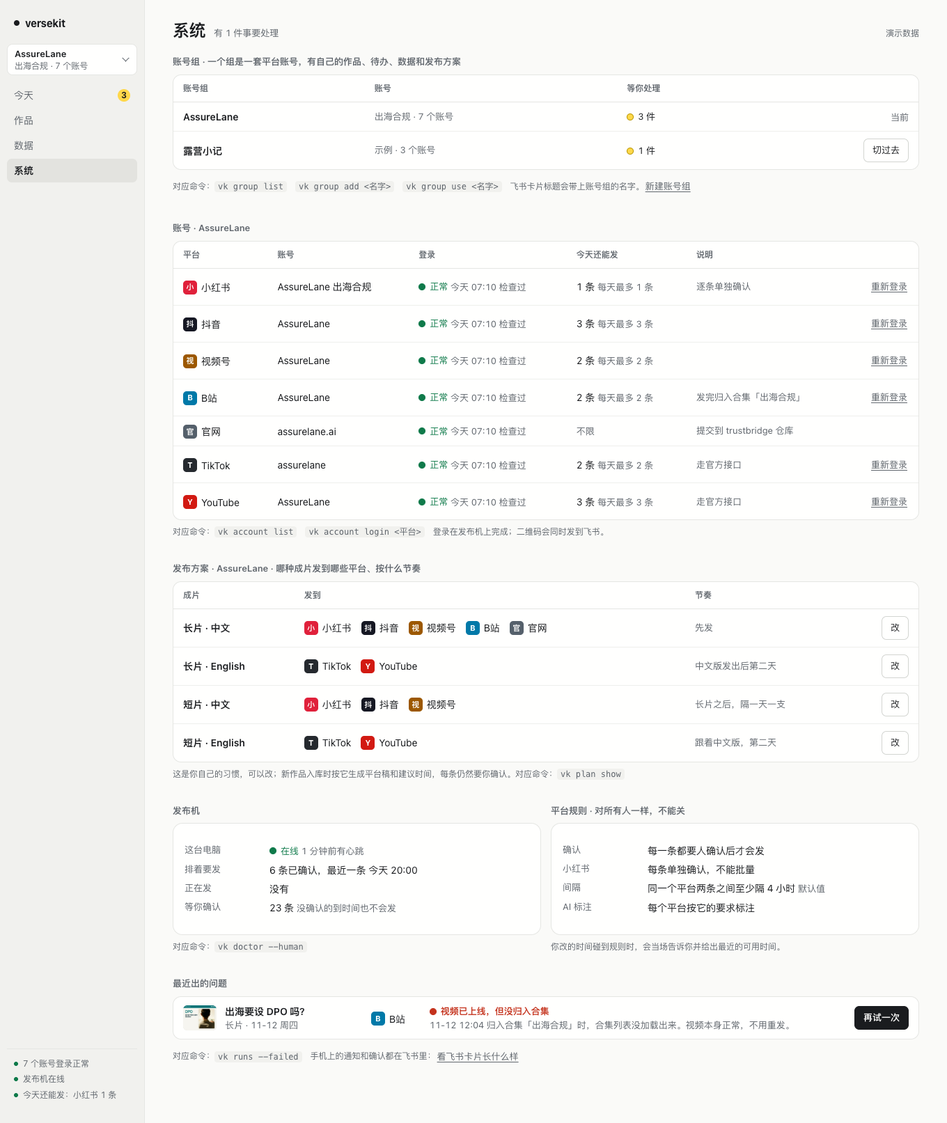
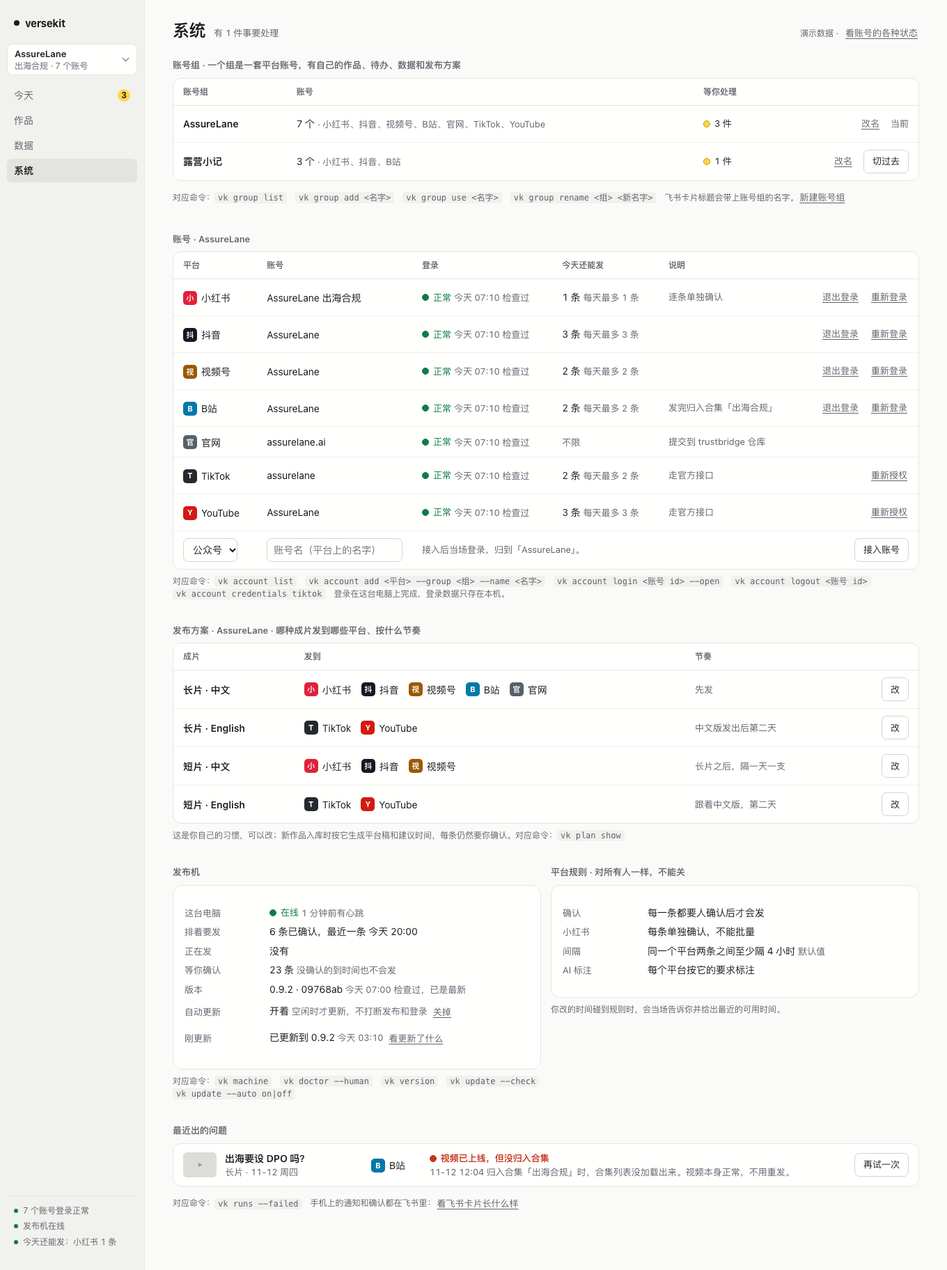
docs(docs): 系统页设计追上实现，补退出登录、防串号、自动更新的设计
实现时补了设计稿里没有的东西（接入账号、登录进行中、TikTok 凭证），
一张账号表里出现了文字链接、描边按钮、墨色实心三种操作，没有规则。
这次先定规则：操作的轻重跟这一行的状态走，不跟平台走；红只给「坏了」，
黄给「等你」。其余状态都按这条规则落位，一行要多说一句时在行内展开，不弹窗。

网页上只保留「打开登录窗口」一种登录方式：不是每个平台都能扫码，
所以网页上的词改成「等你登录 / 我登录好了」。

diff --git a/docs/design/system.html b/docs/design/system.html
@@ -3,11 +3,27 @@
 <link rel="stylesheet" href="app.css">
 <style>
 .two{display:grid;grid-template-columns:repeat(2,minmax(0,1fr));gap:14px}
-.kv{padding:14px 16px;display:grid;grid-template-columns:110px minmax(0,1fr);gap:6px 12px;font-size:14px}
+.kv{padding:14px 16px;display:grid;grid-template-columns:110px minmax(0,1fr);gap:6px 12px;font-size:14px;align-items:baseline}
 .kv dt{color:var(--ink2);font-size:13px}
 .kv dd{margin:0}
+.kv .link{margin-left:6px}
+.notes{margin:4px 0 2px;padding-left:18px;font-size:13px;color:var(--ink2)}
 .plan td:first-child{white-space:nowrap;font-weight:600}
 .pfs{display:flex;gap:10px 14px;flex-wrap:wrap}
+/* 操作列：文字链接和按钮排在一行，靠右 */
+.acts{display:inline-flex;gap:14px;align-items:center;justify-content:flex-end;white-space:nowrap}
+/* 行内展开：这一行需要多说一句或多填一项时，在它下面展开，不弹窗 */
+tr.has-sub td{border-bottom:0}
+tr.subrow td{padding-top:0}
+.subin{display:flex;gap:10px 16px;align-items:center;flex-wrap:wrap;padding:10px 12px;border:1px solid var(--line);border-radius:var(--r);background:var(--hover);font-size:13px}
+.subin p{margin:0;flex:1 1 320px;max-width:60em}
+.cmd code{white-space:nowrap}
+.subin .acts{margin-left:auto}
+.subin.bad{background:var(--bad-bg);border-color:var(--bad-line)}
+.subin.bad p{color:var(--bad)}
+.subin input{flex:1 1 180px;max-width:260px;height:34px;border:1px solid var(--ctl);border-radius:7px;padding:0 9px;font-size:14px;background:var(--paper);min-width:0}
+.addrow select{height:34px;border:1px solid var(--ctl);border-radius:7px;padding:0 9px;font-size:14px;background:var(--paper);max-width:100%}
+.addrow input{width:100%;max-width:220px}
 @media (max-width:860px){.two{grid-template-columns:minmax(0,1fr)}}
 </style></head>
 <body><div class="app">
@@ -22,43 +38,117 @@
 initShell();
 const main = document.getElementById('main');
 // 账号、规则、发布方案都是演示数据。规则里的数字是默认值，还没最后确定。
+// #acc=states：状态样张，一张表里摆出要处理的各种状态。#add=none / #add=full：接入账号那一行的另外两种样子。
+const STATES = HASH.acc === 'states';
+// via：web = 在登录窗口里登录；api = 官方接口授权；repo = 不用登录
+// state：ok 正常 / expired 要重新登录 / failed 没登上 / conflict 登录到了别的号 / off 没登录 / nocred 缺应用凭证 / noauth 还没授权
+// step（进行中的那一步）：pre 登录前的说明 / wait 等你登录 / logout 退出确认 / cred 填应用凭证
+const A = (k, name, left, cap, note, via = 'web', state = 'ok', step = null) => ({ k, name, left, cap, note, via, state, step });
 const ACC = SIMPLE
-  ? [['xhs', '露营小记', 1, 1, '逐条单独确认'], ['dy', '露营小记', 2, 3, ''], ['bili', '露营小记', 1, 2, '']]
-  : [['xhs', 'AssureLane 出海合规', 1, 1, '逐条单独确认'], ['dy', 'AssureLane', 3, 3, ''], ['sph', 'AssureLane', 2, 2, ''], ['bili', 'AssureLane', 2, 2, '发完归入合集「出海合规」'],
-    ['web', 'assurelane.ai', null, null, '提交到 trustbridge 仓库'], ['tk', 'assurelane', 2, 2, '走官方接口'], ['yt', 'AssureLane', 3, 3, '走官方接口']];
+  ? [A('xhs', '露营小记', 1, 1, '逐条单独确认'), A('dy', '露营小记', 2, 3, ''), A('bili', '露营小记', 1, 2, '')]
+  : STATES
+    ? [A('xhs', 'AssureLane 出海合规', 1, 1, '逐条单独确认', 'web', 'conflict'), A('dy', 'AssureLane', 3, 3, '', 'web', 'expired'), A('sph', 'AssureLane', 2, 2, '', 'web', 'expired', 'wait'), A('bili', 'AssureLane', 2, 2, '发完归入合集「出海合规」', 'web', 'failed'),
+      A('web', 'assurelane.ai', null, null, '提交到 trustbridge 仓库', 'repo'), A('tk', 'assurelane', 2, 2, '走官方接口', 'api', 'nocred'), A('yt', 'AssureLane', 3, 3, '走官方接口', 'api')]
+    : [A('xhs', 'AssureLane 出海合规', 1, 1, '逐条单独确认'), A('dy', 'AssureLane', 3, 3, ''), A('sph', 'AssureLane', 2, 2, ''), A('bili', 'AssureLane', 2, 2, '发完归入合集「出海合规」'),
+      A('web', 'assurelane.ai', null, null, '提交到 trustbridge 仓库', 'repo'), A('tk', 'assurelane', 2, 2, '走官方接口', 'api'), A('yt', 'AssureLane', 3, 3, '走官方接口', 'api')];
+// 这台电脑上别的组接了哪些平台：同平台再登录时，登录前先说清楚会登进哪个号
+const OTHER = SIMPLE ? { name: 'AssureLane', pfs: { xhs: 'AssureLane 出海合规', dy: 'AssureLane', sph: 'AssureLane', bili: 'AssureLane' } } : { name: '露营小记', pfs: { xhs: '露营小记', dy: '露营小记', bili: '露营小记' } };
+const OTHER_PFS = SIMPLE ? ['xhs', 'dy', 'sph', 'bili', 'web', 'tk', 'yt'] : ['xhs', 'dy', 'bili'];
 const PLAN = SIMPLE
   ? [['视频', ['xhs', 'dy', 'bili'], '每支成片发到所有接入的平台（默认方案）']]
   : [['长片 · 中文', ['xhs', 'dy', 'sph', 'bili', 'web'], '先发'], ['长片 · English', ['tk', 'yt'], '中文版发出后第二天'], ['短片 · 中文', ['xhs', 'dy', 'sph'], '长片之后，隔一天一支'], ['短片 · English', ['tk', 'yt'], '跟着中文版，第二天']];
-let relogin = null;
+const NOTES = ['系统页：侧栏的发布机状态和真实心跳一致', '接入账号的下拉框只列能接的平台', '发布方案可以按成片分别改', '最近出的问题只留能再试的', '后台服务会自己检查更新'];
+let autoUpdate = true, notesOpen = false;
+const names = (ks) => ks.map((k) => PF[k][1]).join('、');
+const needs = () => ACC.filter((a) => a.via !== 'repo' && a.state !== 'ok').length;
+const acct = (k) => ACC.find((a) => a.k === k);
+const B = (act, k, label, cls = 'btn') => `<button class="${cls}" data-act="${act}" data-k="${k}">${label}</button>`;
+
+function loginCell(a) {
+  if (a.step === 'wait') return a.via === 'api' ? '<span class="st wait">等你授权</span> <span class="sub">授权页已在浏览器里打开</span>' : '<span class="st wait">等你登录</span> <span class="sub">登录窗口已打开</span>';
+  return { ok: '<span class="st done">正常</span> <span class="sub">今天 07:10 检查过</span>', expired: '<span class="st bad">要重新登录</span> <span class="sub">今天 06:39 检查过</span>', failed: '<span class="st bad">没登上</span> <span class="sub">登录窗口关了，还没登进去</span>',
+    conflict: '<span class="st bad">登录到了别的号</span>', off: '<span class="st wait">没登录</span>', nocred: '<span class="st wait">缺应用凭证</span>', noauth: '<span class="st wait">还没授权</span>' }[a.state];
+}
+// 操作的轻重跟状态走：正常 → 文字链接；要你处理 → 描边按钮；进行中的下一步 → 墨色实心
+function actCell(a) {
+  const k = a.k;
+  if (a.via === 'repo') return '';
+  if (a.step === 'wait') return `<span class="acts">${B('cancel', k, '取消', 'link')}${B('done', k, a.via === 'api' ? '我授权好了' : '我登录好了', 'btn pri')}</span>`;
+  if (a.step || a.state === 'conflict') return '';
+  return `<span class="acts">${{ ok: a.via === 'api' ? B('login', k, '重新授权', 'link') : B('logout', k, '退出登录', 'link') + B('login', k, '重新登录', 'link'), expired: B('login', k, '重新登录'), failed: B('login', k, '再试一次'), off: B('login', k, '登录'), nocred: B('cred', k, '填应用凭证'), noauth: B('login', k, `Connect ${PF[k][1]}`) }[a.state]}</span>`;
+}
+function subRow(a) {
+  const k = a.k, pf = PF[k][1]; let cls = '', body = '';
+  if (a.step === 'pre') body = `<p>这台电脑上已经接了一个${pf}号（「${OTHER.name}」的 @${esc(OTHER.pfs[k])}）。登录窗口里登进哪个号，接进来的就是哪个号：扫码登录的是手机 App 当前的号，要接另一个号，先在 App 里切换账号，或在登录窗口里改用短信登录。</p><span class="acts">${B('cancel', k, '取消', 'link')}${B('go', k, '知道了，开始登录', 'btn pri')}</span>`;
+  else if (a.step === 'logout') { const n = upcoming().filter((r) => r.x.pf === k).length; body = `<p>退出后会清掉这个账号在这台电脑上的登录数据，要重新登录才能发。${n ? `<b>这个账号还有 ${n} 条排着要发，退出后不会发。</b>` : ''}</p><span class="acts">${B('cancel', k, '取消', 'link')}${B('logout-ok', k, '退出登录')}</span>`; }
+  else if (a.step === 'cred') body = `<p>填 ${pf} 开发者后台里这个应用的凭证。只存在这台电脑上，保存后不再显示 secret。</p><input type="text" placeholder="client key" aria-label="client key" autocomplete="off"><input type="password" placeholder="client secret" aria-label="client secret" autocomplete="off"><span class="acts">${B('cancel', k, '取消', 'link')}${B('save', k, '保存', 'btn pri')}</span>`;
+  else if (a.state === 'conflict') { cls = ' bad'; body = `<p>这个${pf}号已经接在「${OTHER.name}」的 @${esc(OTHER.pfs[k])} 上，没有算登录成功。要接另一个号，先退出登录，再登录另一个号。</p><span class="acts">${B('logout-ok', k, '退出登录，换一个号')}</span>`; }
+  return body ? `<tr class="subrow"><td colspan="6"><div class="subin${cls}">${body}</div></td></tr>` : '';
+}
+function addRow() {
+  const free = HASH.add === 'full' ? [] : Object.keys(PF).filter((k) => !acct(k));
+  if (HASH.add === 'none') return '<tr><td colspan="6" class="sub">还没有装任何平台，装好后在这里接入账号。看有哪些平台：<code>vk platforms</code></td></tr>';
+  if (!free.length) return `<tr><td colspan="6" class="sub">这个组能接的平台都接上了。一个组里每个平台接一个号；要接第二个号，新建一个账号组。</td></tr>`;
+  return `<tr class="addrow"><td><select aria-label="要接入的平台">${free.map((k) => `<option value="${k}">${PF[k][1]}</option>`).join('')}</select></td><td><input type="text" placeholder="账号名（平台上的名字）" aria-label="账号名"></td><td colspan="3" class="sub">接入后当场登录，归到「${GROUP.name}」。</td><td class="n">${B('add', '', '接入账号')}</td></tr>`;
+}
 function draw() {
-  const up = upcoming(); const iss = issues();
+  const up = upcoming(); const iss = issues(); const todo = iss.length + needs() + (STATES ? 1 : 0);
+  setAccHealth(ACC.length, needs());
+  const demoHash = [SIMPLE && 'g=camp', !STATES && 'acc=states'].filter(Boolean).join('&');
   main.innerHTML = `
-  <div class="hd"><h1>系统</h1><span class="sub">${iss.length ? `有 ${iss.length} 件事要处理` : '一切正常'}</span><span class="demo r">演示数据</span></div>
+  <div class="hd"><h1>系统</h1><span class="sub">${todo ? `有 ${todo} 件事要处理` : '一切正常'}</span><span class="demo r">演示数据 · <a class="link" href="system.html${demoHash ? '#' + demoHash : ''}" data-sw>${STATES ? '回到全部正常' : '看账号的各种状态'}</a></span></div>
   <h2 class="sec" style="margin-top:0">账号组 · 一个组是一套平台账号，有自己的作品、待办、数据和发布方案</h2>
-  <div class="tblwrap"><table><thead><tr><th>账号组</th><th>账号</th><th>等你处理</th><th class="n"></th></tr></thead><tbody>${GROUPS.map((g) => { const n = g === GROUP ? todoCount() : (g.id === 'main' ? MAIN_TODO : 1); return `<tr><td><b style="font-weight:600">${g.name}</b></td><td class="sub">${g.sub}</td><td>${n ? `<span class="st wait">${n} 件</span>` : '<span class="st">没有</span>'}</td><td class="n">${g === GROUP ? '<span class="sub">当前</span>' : `<a class="btn" href="system.html${g.q}" data-sw>切过去</a>`}</td></tr>`; }).join('')}</tbody></table></div>
-  <div class="cmd">对应命令：<code>vk group list</code>　<code>vk group add &lt;名字&gt;</code>　<code>vk group use &lt;名字&gt;</code>　飞书卡片标题会带上账号组的名字。<button class="link" data-newg>新建账号组</button></div>
+  <div class="tblwrap"><table><thead><tr><th>账号组</th><th>账号</th><th>等你处理</th><th class="n"></th></tr></thead><tbody>${GROUPS.map((g) => { const n = g === GROUP ? todoCount() : (g.id === 'main' ? MAIN_TODO : 1); const ks = g === GROUP ? ACC.map((a) => a.k) : OTHER_PFS; return `<tr><td><b style="font-weight:600">${g.name}</b></td><td>${ks.length} 个 <span class="sub">· ${names(ks)}</span></td><td>${n ? `<span class="st wait">${n} 件</span>` : '<span class="st">没有</span>'}</td><td class="n"><span class="acts"><button class="link" data-rename>改名</button>${g === GROUP ? '<span class="sub">当前</span>' : `<a class="btn" href="system.html${g.q}" data-sw>切过去</a>`}</span></td></tr>`; }).join('')}</tbody></table></div>
+  <div class="cmd">对应命令：<code>vk group list</code>　<code>vk group add &lt;名字&gt;</code>　<code>vk group use &lt;名字&gt;</code>　<code>vk group rename &lt;组&gt; &lt;新名字&gt;</code>　飞书卡片标题会带上账号组的名字。<button class="link" data-newg>新建账号组</button></div>
   <h2 class="sec">账号 · ${GROUP.name}</h2>
-  <div class="tblwrap"><table><thead><tr><th>平台</th><th>账号</th><th>登录</th><th>今天还能发</th><th>说明</th><th class="n"></th></tr></thead><tbody>${ACC.map(([k, name, left, cap, note]) => `<tr><td>${pfn(k)}</td><td>${esc(name)}</td><td>${relogin === k ? '<span class="st wait">等你扫码</span>' : `<span class="st done">正常</span> <span class="sub">今天 07:10 检查过</span>`}</td><td>${cap == null ? '<span class="sub">不限</span>' : `${left} 条 <span class="sub">每天最多 ${cap} 条</span>`}</td><td class="sub">${note}</td><td class="n">${k === 'web' ? '' : `<button class="${relogin === k ? 'btn pri' : 'link'}" data-re="${k}">${relogin === k ? '我扫好了' : '重新登录'}</button>`}</td></tr>`).join('')}</tbody></table></div>
-  <div class="cmd">对应命令：<code>vk account list</code>　<code>vk account login &lt;平台&gt;</code>　登录在发布机上完成；二维码会同时发到飞书。</div>
+  <div class="tblwrap"><table><thead><tr><th>平台</th><th>账号</th><th>登录</th><th>今天还能发</th><th>说明</th><th class="n"></th></tr></thead><tbody>${ACC.map((a) => { const sub = subRow(a); return `<tr${sub ? ' class="has-sub"' : ''}><td>${pfn(a.k)}</td><td>${esc(a.name)}</td><td>${loginCell(a)}</td><td>${a.cap == null ? '<span class="sub">不限</span>' : a.state !== 'ok' ? '<span class="sub">现在发不了</span>' : `${a.left} 条 <span class="sub">每天最多 ${a.cap} 条</span>`}</td><td class="sub">${a.note}</td><td class="n">${actCell(a)}</td></tr>${sub}`; }).join('')}${addRow()}</tbody></table></div>
+  <div class="cmd">对应命令：<code>vk account list</code>　<code>vk account add &lt;平台&gt; --group &lt;组&gt; --name &lt;名字&gt;</code>　<code>vk account login &lt;账号 id&gt; --open</code>　<code>vk account logout &lt;账号 id&gt;</code>　<code>vk account credentials tiktok</code>　登录在这台电脑上完成，登录数据只存在本机。</div>
 
   <h2 class="sec">发布方案 · ${GROUP.name} · 哪种成片发到哪些平台、按什么节奏</h2>
   <div class="tblwrap"><table class="plan"><thead><tr><th>成片</th><th>发到</th><th>节奏</th><th class="n"></th></tr></thead><tbody>${PLAN.map(([n, ps, rh], i) => `<tr><td>${n}</td><td><div class="pfs">${ps.map(pfn).join('')}</div></td><td class="sub">${rh}</td><td class="n"><button class="btn" data-plan="${i}">改</button></td></tr>`).join('')}</tbody></table></div>
   <div class="cmd">这是你自己的习惯，可以改；新作品入库时按它生成平台稿和建议时间，每条仍然要你确认。对应命令：<code>vk plan show</code></div>
 
   <div class="two">
-    <div><h2 class="sec">发布机</h2><div class="panel"><dl class="kv"><dt>这台电脑</dt><dd><span class="st done">在线</span> <span class="sub">1 分钟前有心跳</span></dd><dt>排着要发</dt><dd>${up.length} 条已确认${up.length ? `，最近一条 ${when(up[0].x.at).text}` : ''}</dd><dt>正在发</dt><dd>没有</dd><dt>等你确认</dt><dd>${WORKS.reduce((n, w) => n + pendingOf(w).length, 0)} 条 <span class="sub">没确认的到时间也不会发</span></dd></dl></div>
-      <div class="cmd">对应命令：<code>vk doctor --human</code></div></div>
+    <div><h2 class="sec">发布机</h2><div class="panel"><dl class="kv"><dt>这台电脑</dt><dd><span class="st done">在线</span> <span class="sub">1 分钟前有心跳</span></dd><dt>排着要发</dt><dd>${up.length} 条已确认${up.length ? `，最近一条 ${when(up[0].x.at).text}` : ''}</dd><dt>正在发</dt><dd>没有</dd><dt>等你确认</dt><dd>${WORKS.reduce((n, w) => n + pendingOf(w).length, 0)} 条 <span class="sub">没确认的到时间也不会发</span></dd>
+      <dt>版本</dt><dd>${STATES ? '0.9.1 · 7437841' : '0.9.2 · 09768ab'} <span class="sub">今天 07:00 检查过，${STATES ? '新版本没装上' : '已是最新'}</span></dd>
+      <dt>自动更新</dt><dd>${autoUpdate ? '开着 <span class="sub">空闲时才更新，不打断发布和登录</span>' : '关着 <span class="sub">有新版本也不会自己装</span>'}<button class="link" data-auto>${autoUpdate ? '关掉' : '打开'}</button></dd>
+      ${STATES ? '' : `<dt>刚更新</dt><dd>已更新到 0.9.2 <span class="sub">今天 03:10</span><button class="link" data-notes aria-expanded="${notesOpen}">${notesOpen ? '收起' : '看更新了什么'}</button>${notesOpen ? `<ul class="notes">${NOTES.map((t) => `<li>${t}</li>`).join('')}</ul>` : ''}</dd>`}</dl></div>
+      <div class="cmd">对应命令：<code>vk machine</code>　<code>vk doctor --human</code>　<code>vk version</code>　<code>vk update --check</code>　<code>vk update --auto on|off</code></div></div>
     <div><h2 class="sec">平台规则 · 对所有人一样，不能关</h2><div class="panel"><dl class="kv"><dt>确认</dt><dd>每一条都要人确认后才会发</dd><dt>小红书</dt><dd>每条单独确认，不能批量</dd><dt>间隔</dt><dd>同一个平台两条之间至少隔 4 小时 <span class="sub">默认值</span></dd><dt>AI 标注</dt><dd>每个平台按它的要求标注</dd></dl></div>
       <div class="cmd">你改的时间碰到规则时，会当场告诉你并给出最近的可用时间。</div></div>
   </div>
 
   <h2 class="sec">最近出的问题</h2>
-  ${iss.length ? `<div class="tblwrap"><table><tbody>${iss.map((r, i) => `<tr><td><a class="wcell" href="work.html#id=${r.w.id}&cut=${r.c.id}"><img class="cv" src="${r.w.cover}" width="48" height="36" alt=""><span><b>${esc(r.w.title)}</b><span class="sub">${esc(r.c.name)} · ${when(r.x.at).day}</span></span></a></td><td>${pfn(r.x.pf)}</td><td><span class="st bad">${esc(r.x.issue.what)}</span><div class="sub">${esc(r.x.issue.why)}</div></td><td class="n"><button class="btn pri" data-p="${i}">再试一次</button></td></tr>`).join('')}</tbody></table></div>` : '<div class="panel empty">最近 7 天没有出过问题。</div>'}
+  ${iss.length || STATES ? `<div class="tblwrap"><table><tbody>${STATES ? '<tr><td><b style="font-weight:600;display:block">versekit 自动更新</b><span class="sub">今天 03:10</span></td><td></td><td><span class="st bad">自动更新失败，已回到 0.9.1</span><div class="sub">新版本启动后 60 秒内没有响应。这台电脑照常能发，下次检查时会再试。</div></td><td class="n"></td></tr>' : ''}${iss.map((r, i) => `<tr><td><a class="wcell" href="work.html#id=${r.w.id}&cut=${r.c.id}"><img class="cv" src="${r.w.cover}" width="48" height="36" alt=""><span><b>${esc(r.w.title)}</b><span class="sub">${esc(r.c.name)} · ${when(r.x.at).day}</span></span></a></td><td>${pfn(r.x.pf)}</td><td><span class="st bad">${esc(r.x.issue.what)}</span><div class="sub">${esc(r.x.issue.why)}</div></td><td class="n"><button class="btn" data-p="${i}">再试一次</button></td></tr>`).join('')}</tbody></table></div>` : '<div class="panel empty">最近 7 天没有出过问题。</div>'}
   <div class="cmd">对应命令：<code>vk runs --failed</code>　手机上的通知和确认都在飞书里：<a class="link" href="feishu.html">看飞书卡片长什么样</a></div>`;
 }
-main.addEventListener('click', (e) => { if (e.target.closest('[data-sw]')) { setTimeout(() => location.reload(), 0); return; } if (e.target.closest('main [data-newg]')) { toast('原型里不能建；实现后在这里建，或用 vk group add'); return; } const b = e.target.closest('[data-re],[data-plan],[data-p]'); if (!b) return; const ds = b.dataset;
-  if (ds.re) { if (relogin === ds.re) { relogin = null; toast('登录正常'); } else { relogin = ds.re; toast(`二维码已发到飞书，用${PF[ds.re][1]} App 扫`); } draw(); }
-  else if (ds.plan) toast('原型里不能改；实现后在这里改，或用 vk plan edit');
-  else { issues()[+ds.p].x.issue.done = true; toast('正在重试'); changed(); } });
+// 开始登录：这台电脑已经接过同平台的另一个号（且是在登录窗口里登录的），先说清楚再开窗口
+function startLogin(a) { a.step = a.via === 'web' && OTHER.pfs[a.k] ? 'pre' : 'wait'; if (a.step === 'wait') opened(a); }
+function opened(a) { toast(a.via === 'api' ? '授权页已在浏览器里打开' : `${PF[a.k][1]}的登录窗口已打开`); }
+main.addEventListener('click', (e) => {
+  if (e.target.closest('[data-sw]')) { setTimeout(() => location.reload(), 0); return; }
+  if (e.target.closest('main [data-newg]')) { toast('原型里不能建；实现后在这里建，或用 vk group add'); return; }
+  if (e.target.closest('[data-rename]')) { toast('原型里不能改；实现后在这里改，或用 vk group rename'); return; }
+  if (e.target.closest('[data-auto]')) { autoUpdate = !autoUpdate; toast(autoUpdate ? '自动更新已打开' : '自动更新已关掉'); draw(); return; }
+  if (e.target.closest('[data-notes]')) { notesOpen = !notesOpen; draw(); return; }
+  const b = e.target.closest('[data-act],[data-plan],[data-p]'); if (!b) return; const ds = b.dataset;
+  if (ds.plan) { toast('原型里不能改；实现后在这里改，或用 vk plan edit'); return; }
+  if (ds.p) { issues()[+ds.p].x.issue.done = true; toast('正在重试'); changed(); return; }
+  if (ds.act === 'add') {
+    const row = b.closest('tr'), k = row.querySelector('select').value, inp = row.querySelector('input'), name = inp.value.trim();
+    if (!name) { inp.focus(); toast('先填账号名'); return; }
+    const api = k === 'tk' || k === 'yt'; const a = A(k, name, 2, 2, api ? '走官方接口' : '', api ? 'api' : 'web', api ? 'noauth' : 'off'); ACC.push(a); startLogin(a); draw(); return;
+  }
+  const a = acct(ds.k);
+  if (ds.act === 'login') startLogin(a);
+  else if (ds.act === 'go') { a.step = 'wait'; opened(a); }
+  else if (ds.act === 'cancel') a.step = null;
+  else if (ds.act === 'done') { a.step = null; a.state = 'ok'; toast(`${PF[a.k][1]}登录正常`); }
+  else if (ds.act === 'logout') a.step = 'logout';
+  else if (ds.act === 'logout-ok') { a.step = null; a.state = 'off'; toast(`已退出${PF[a.k][1]}的登录`); }
+  else if (ds.act === 'cred') a.step = 'cred';
+  else if (ds.act === 'save') { a.step = null; a.state = 'noauth'; toast('应用凭证已保存'); }
+  draw();
+});
 listeners.push(draw); draw();
 </script></body></html>

diff --git a/docs/design/app.js b/docs/design/app.js
@@ -138,6 +138,8 @@ function workState(w) {
 }
 const listeners = []; const changed = () => listeners.forEach((f) => f());
 
+// 侧栏底部第一行：有问题只说有几个要处理，全正常才说几个正常（一行说完，不折行）
+function setAccHealth(total, bad) { const el = document.querySelector('[data-acc-health]'); if (el) el.innerHTML = bad ? `<span class="dot bad"></span>${bad} 个账号要处理` : `<span class="dot"></span>${total} 个账号登录正常`; }
 // ---------- 外壳：导航写在每个页面的 HTML 里，这里只填待办数和底部的状态
 function initShell() {
   const nav = document.querySelector('nav.nav');
@@ -151,7 +153,7 @@ function initShell() {
   document.addEventListener('click', (e) => { if (!grp.contains(e.target)) grp.open = false; });
   nav.querySelector('.brand').after(grp);
   const acc = new Set(allPubs().map((r) => r.x.pf)).size;
-  nav.append($(`<div class="health"><div><span class="dot"></span>${acc} 个账号登录正常</div><div><span class="dot"></span>发布机在线</div><div><span class="dot"></span>今天还能发：小红书 1 条</div></div>`));
+  nav.append($(`<div class="health"><div data-acc-health><span class="dot"></span>${acc} 个账号登录正常</div><div><span class="dot"></span>发布机在线</div><div><span class="dot"></span>今天还能发：小红书 1 条</div></div>`));
   const upd = () => { const b = nav.querySelector('[data-todo]'); const n = todoCount(); b.textContent = n; b.hidden = !n; };
   listeners.push(upd); upd();
 }

diff --git a/docs/design/DESIGN-TODO-2026-11-17.md b/docs/design/DESIGN-TODO-2026-11-17.md
@@ -1,0 +1,38 @@
+# 设计待办（2026-11-17，协调器整理）
+
+给设计会话用。背景：系统页已按 `docs/design/system.html` 做成真的（#208、#209、#214 已合并），旧页面（添加账号、账号组、发布台、任务与日志）和 `docs/design/v1/` 已删。实现时补了一些设计稿里没有的东西，还有几处所有者在真机上踩到的问题，需要设计先定，再由协调器写验收口径、派实现。
+
+按 AGENTS.md §6：每个页面先更新任务书（`.impeccable/surfaces/docs-design-<page>-html.md`），再改原型 `docs/design/<page>.html`，更新截图 `docs/design/screenshots/v2/`，跑 `npm run design:check`。
+
+现状截图：
+- `docs/design/screenshots/current/system-2026-11-17.png`：真实服务上的系统页（离线演示数据，1360 宽）
+- `docs/design/screenshots/current/system-accounts-states-2026-11-17.png`：账号表的四种登录状态（验收时的假数据）
+- 设计稿：`docs/design/screenshots/v2/system.png`
+
+## 一、系统页：把实现时补出来的东西画进设计稿（设计稿要追上实现）
+
+1. **接入账号**：设计稿里没有。实现是在账号表下面放一行「平台下拉框 + 账号名输入框 + 接入账号按钮」。要定：放在哪里、长什么样；下拉框有三种状态（没装适配器 / 这个组的平台都接上了 / 有可接的平台）分别怎么显示。
+2. **登录进行中的行内状态**：「等你扫码 / 等你登录」，这一行带「取消」和「我扫好了 / 我登录好了」两个按钮；失败时这一行显示红字原因。设计稿里只有「等你扫码」和「我扫好了」。
+3. **TikTok 官方接口那一行**：没有应用凭证时，要在这一行填 client key 和 client secret（secret 不回显）；有凭证、没授权时，显示「Connect TikTok」主按钮。现在这个主按钮是墨色实心的，和别的行的「重新登录」文字链接不一样，要定统一规则。
+4. **账号组表**：实现里第二列是「N 个 · 平台名」，设计稿是组的说明文字；当前组还多了一个「改名」。二选一定下来。
+5. **侧栏底部状态摘要**：「1 个账号登录正常，3 个要处理」太长会折行（见状态截图左下角）。
+
+## 二、系统页：正在做 / 马上要做的功能，需要先有设计
+
+6. **退出登录 / 换号**（#220）：每个网页登录账号那一行加「退出登录」，作用是清掉这个账号的浏览器登录数据，然后可以换号。要定：放在哪里、要不要二次确认、退出后这一行长什么样。
+7. **防串号提示**（#220）：登录到的平台账号已经接在别的组上时，不算登录成功，在这一行显示「这个小红书号已经接在「AssureLane」的 @AI 上；要接另一个号，先退出登录，再扫码或短信登录另一个号」。要定这条提示的样式。
+8. **扫码说明**：扫码登录的是手机 App 上当前的号；要接第二个号，得先在 App 里切换账号，或改用短信登录。这句话放在哪里，用户才会在扫码前看到。
+9. **自动更新**（#217，正在验收）：「发布机」一块加了当前版本、上次检查时间、自动更新开关；刚更新过时多一行「已更新到 <版本>（时间）」，附最多 5 条更新内容。自动更新失败会出现在「最近出的问题」里。设计稿里这些都没有。
+
+## 三、要所有者拍板的产品问题（设计前先定）
+
+10. **网页上还要不要能上传素材 / 新建作品？** 旧的发布台已删，现在入库只能用 `vk work add` 加 `vk plan apply`，或者让 Claude 用入库技能来做。v2 的设计是「网页只确认，不上传」。如果要能上传，就要设计作品页的入口和流程。
+11. **登录方式要不要在网页上二选一？** 小红书支持扫码、短信、打开登录窗口三种，现在系统页只有「打开登录窗口」这一种。要不要让用户选？
+
+## 四、可以顺手清理的
+
+12. `docs/design/ACCEPTANCE.md` 第二节里那些 v1 页面的条目（矩阵、发布台、发布计划、总览、任务与日志、添加账号），对应的页面已经删了。要么标成「已退役」，要么删掉。这件事协调器也可以做，但要先确认没有别的条目还引用它们。
+
+## 交回协调器的方式
+
+设计改完开 PR（分支 `design/next`）。PR 里写清楚：哪些页面改了、新增或修改了哪些状态和文案、需要新增哪些验收口径。协调器据此写 ACC，再拆单派实现。还没合并的实现单（#217 自动更新、#220 账号隔离）会按现在的口径先做；设计定稿后，有差异的地方再开收尾单。

diff --git a/.impeccable/surfaces/docs-design-system-html.md b/.impeccable/surfaces/docs-design-system-html.md
@@ -13,7 +13,19 @@ related_targets: []
 **怎么做**：账号（登录状态、今天还能发几条）、发布方案（哪种成片发哪些平台、什么节奏，可改）、发布机与队列、平台规则（不能关）、最近出的问题；每块下面写对应的 vk 命令。
 **成功长什么样**：能回答"为什么这条没发""今天还能发几条""我的发布习惯在哪改"。
 **接入账号（#208 补）**：账号表下方一行——选平台（只列已安装的适配器）→ 填账号名 → 墨色主按钮「接入账号」，当场就地登录（B站/小红书/抖音扫码或登录窗口，TikTok 官方接口走授权链接），成功后出现在表里、归当前账号组。TikTok 官方接口没有应用凭证时，在那一行下面就地填 client key / secret 保存。设计稿里没有这个入口，按现有样式补，不另起一页；旧 `/accounts/add`、`/groups` 跳到本页对应位置。
-**明确不做**：账号组矩阵、日志全文、云端运维。
+**2026-11-17 补（DESIGN-TODO-2026-11-17）**：以下几条覆盖上面「接入账号」一段里和它冲突的说法。
+- **操作的轻重跟状态走，不跟平台走**：这一行正常 → 文字链接（重新登录、退出登录、重新授权）；这一行要你处理 → 描边按钮（重新登录、登录、再试一次、填应用凭证、Connect TikTok）；登录进行中的下一步 → 墨色实心（我登录好了、知道了开始登录、保存），同一时刻全页只有一个。「最近出的问题」的「再试一次」也按这条降成描边。
+- **状态颜色**：红只给「坏了」（要重新登录、没登上、登录到了别的号）；黄给「等你」（没登录、缺应用凭证、还没授权、等你登录）。
+- **网页上只有一种登录方式：打开登录窗口**。不是每个平台都能扫码，所以网页上的词一律是「等你登录 / 我登录好了」，不写「扫码」；扫码、短信留在 `vk account login`。
+- **接入账号**是账号表的最后一行，不是表外的表单。只有「有可接的平台」时显示下拉框和输入框；「没装适配器」「这个组能接的都接上了」各显示一句话，不显示禁用的控件。
+- **行内展开**：一行需要多说一句或多填一项时，在这一行下面展开一条，不弹窗。四种：登录前的说明（只在这台电脑已经接过同平台的另一个号时出现）、退出登录的确认（写出还有几条排着要发）、TikTok 应用凭证、登录到了别的号（红）。
+- **退出登录**只给网页登录的账号；退出后这一行是黄点「没登录」+ 描边「登录」，计入要处理。
+- **账号组表**第二列是「N 个 · 平台名」，每行有「改名」。
+- **侧栏摘要**：有问题只写「N 个账号要处理」，全正常写「N 个账号登录正常」。
+- **发布机**加三行：版本（含上次检查时间）、自动更新（开着/关着 + 就地切换）、刚更新过时的「已更新到」（更新内容默认收起，最多 5 条）。自动更新失败出现在「最近出的问题」里，没有按钮。
+- 原型里 `#acc=states` 是状态样张：一张表里摆出要处理的各种状态，供验收对照。
+
+**明确不做**：账号组矩阵、日志全文、云端运维；网页上传素材 / 新建作品（入库由 Claude 用入库技能做）；在网页上选登录方式。
 **数据从哪来**：`vk group list`、`vk account list`（含今天还能发）、`vk platforms`、`vk account credentials`；发布方案 `vk plan show` / `vk plan set`（#209，存在 meta 表，按账号组各一份）、发布机 `vk machine`（心跳 + 与「今天」同源的排队数）、平台规则（`plan.show` 里的生效规则，默认值标「默认值」）、最近出的问题 `vk runs --failed`（最近 7 天、能「再试一次」的）。
 **依据**：`docs/PRD.md` v0.2、`docs/design/FLOW-v2.md`。硬规则：没有人确认，一条都不会发。
 
